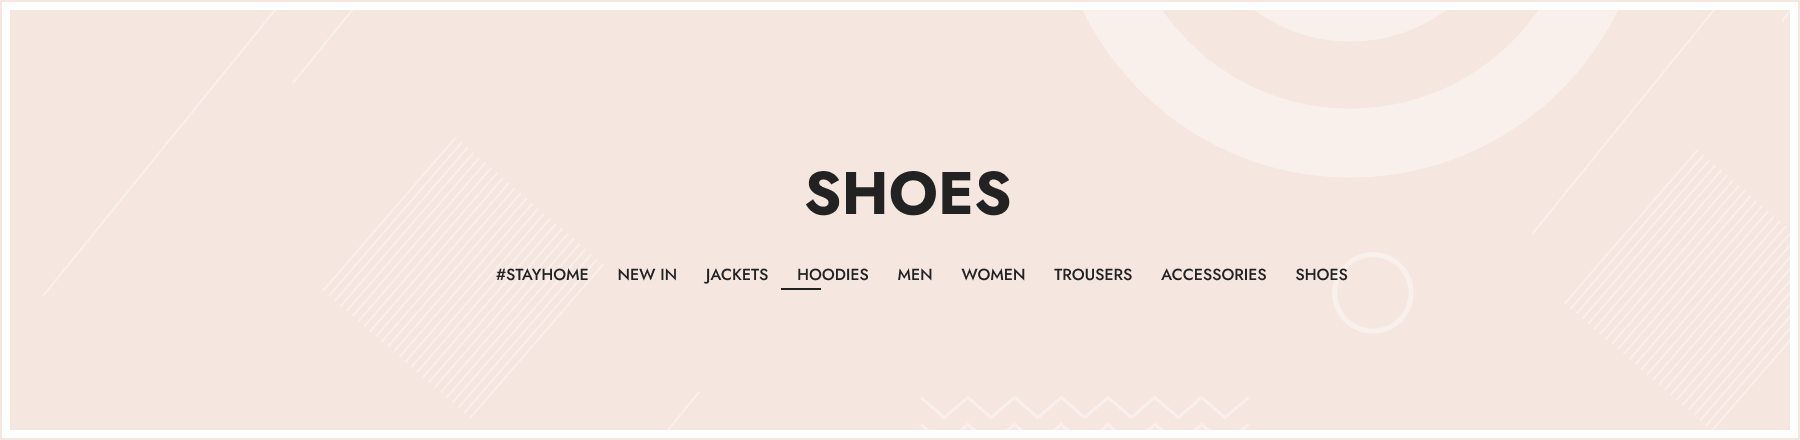
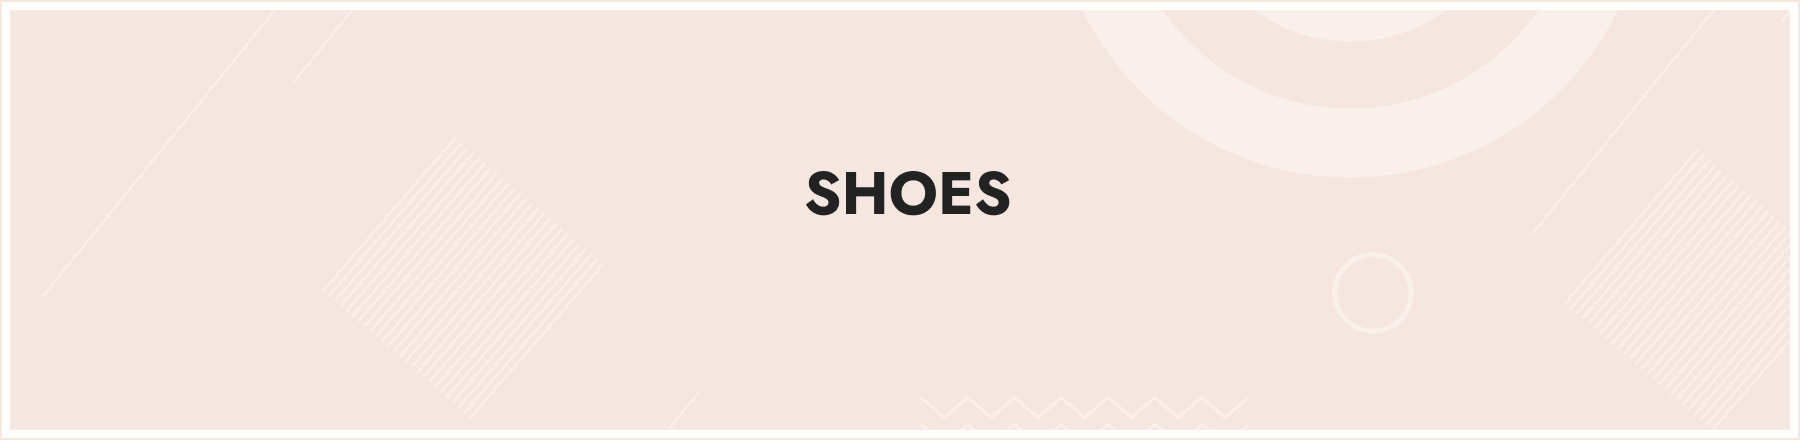
ShopBanner Part Done Here

Changed region(s): [[0.28, 0.5909, 0.7467, 0.6795]]

diff --git a/vite-project/src/api/ShopBannerData.js b/vite-project/src/api/ShopBannerData.js
@@ -1,0 +1,38 @@
+export const ShopBannerData = [
+    {
+        id:1,
+        name: "#STAYHOME",                                              
+    },
+    {
+        id:2,
+        name: "NEW IN",
+    },
+    {
+        id:3,
+        name: "JACKETS",
+    },
+    {
+        id:4,
+        name: "HOODIES",
+    },
+    {
+        id:5,
+        name: "MEN",
+    },
+    {
+        id:6,
+        name: "WOMEN",
+    },
+    {
+        id:7,
+        name: "TROUSERS",
+    },
+    {
+        id:8,
+        name: "ACCESSORIES",
+    },
+    {
+        id:9,
+        name: "SHOES",
+    },
+]

diff --git a/vite-project/src/components/common/BreadCrumb.jsx b/vite-project/src/components/common/BreadCrumb.jsx
@@ -1,0 +1,17 @@
+import React from 'react'
+import Containar from '../ui/Container'
+import { Link, useLocation } from 'react-router'
+const BreadCrumb = () => {
+    const {pathname} = useLocation()
+    let location = pathname.split("/").pop()
+    
+  return (
+    <Containar>
+        <h2 className='font-jost font-medium text-sm text-primary-black leading-6 uppercase mb-10'>
+            <Link to="/">HOME</Link> / {location}</h2>
+    </Containar>
+    
+  )
+}
+
+export default BreadCrumb

diff --git a/vite-project/src/components/shop/ShopBanner.jsx b/vite-project/src/components/shop/ShopBanner.jsx
@@ -1,10 +1,21 @@
 import React from 'react'
 import ShopBannerImage from '../../assets/images/shopbanner.png'
 import Image from '../common/Image'
+import { ShopBannerData } from '../../api/ShopBannerData'
+import Listitems from '../common/Listitems'
 const ShopBanner = () => {
   return (
     <section>
-        <Image className='w-full mb-9' src={ShopBannerImage} alt='ShopBannerImage'/>
+      <div className='relative mb-9'>
+        <Image className='w-full mx-auto px-15' src={ShopBannerImage} alt='ShopBannerImage' />
+        <ul className="absolute bottom-37.5 left-1/2 -translate-x-1/2 flex gap-7.5 z-10">
+          {
+            ShopBannerData?.map((item) => (
+              <Listitems className='list-items' key={item.id}>{item.name}</Listitems>
+            ))
+          }
+        </ul>
+      </div>
     </section>
   )
 }

diff --git a/vite-project/src/components/pages/Shop.jsx b/vite-project/src/components/pages/Shop.jsx
@@ -1,10 +1,12 @@
 import React from 'react'
 import ShopBanner from '../shop/ShopBanner'
+import BreadCrumb from '../common/BreadCrumb'
 
 const Shop = () => {
   return (
     <main className='pt-7.5'>
         <ShopBanner/>
+        <BreadCrumb/>
     </main>
   )
 }